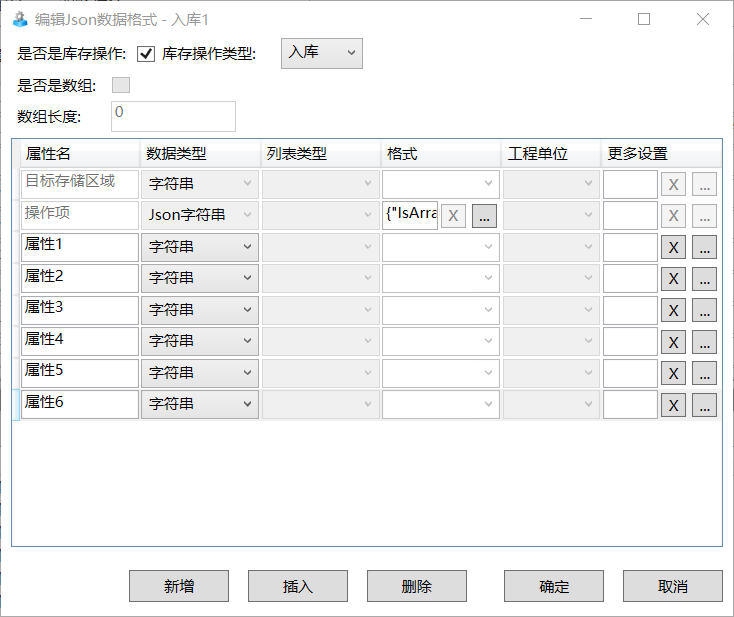
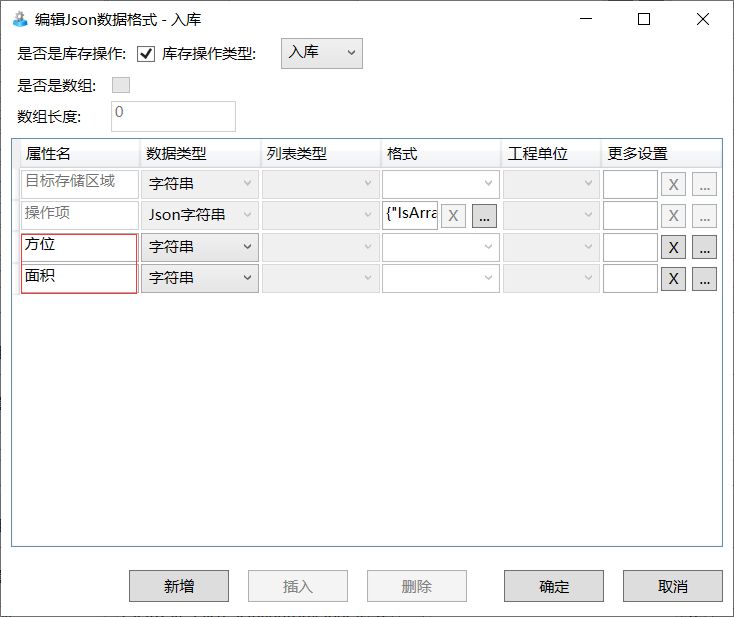
4.0.2发布说明更新

diff --git a/docs/发布说明/4.0.2发布说明.md b/docs/发布说明/4.0.2发布说明.md
@@ -55,11 +55,21 @@ import useBaseUrl from '@docusaurus/useBaseUrl';
 
 * 在SMC的系统设置-服务中，新增了Thingsboard一栏，点击启用，填写相关信息，保存即可
 
- <img alt=" " src={useBaseUrl('docimg/waibushuxing1.png')} />
+  <img alt=" " src={useBaseUrl('docimg/waibushuxing1.png')} />
 
-* 在SDC中，打开资产类型和资产的属性，可以看到新增了外部属性选项，勾选上后，服务运行的情况下，该资产会在Thingsboard的设备中自动创建出来，可以为该设备配置出遥测属性和动态数据，属性名称与SDC中该资产属性名称一致。从Thingsboard中拿到的值会实时更新到资产属性中，在EOC上的资产总览-属性中，该资产的画面监控中都可以看到数据的实时变化
+* 在SDC中，打开资产类型和资产的属性，可以看到新增了外部属性选项，勾选上后，服务运行的情况下，该资产会在Thingsboard的设备中自动创建出来，可以为该设备配置出遥测属性和动态数据，属性名称与SDC中该资产属性名称一致
 
- <img alt=" " src={useBaseUrl('docimg/waibushuxing2.png')} />
+  <img alt=" " src={useBaseUrl('docimg/waibushuxing2.png')} />
+
+* 从Thingsboard中拿到的值会实时更新到资产属性中
+  * 画面监控中配置该资产及其属性可以看到数据的实时变化
+    <img alt=" " src={useBaseUrl('docimg/waibushuxing3.png')} />
+
+  * 在EOC上的资产总览-属性中，刷新可看的数据在变化，可以在历史趋势和表格里看所有记录
+  <img alt=" " src={useBaseUrl('docimg/waibushuxing4.png')} />
+
+  * 终端上使用该资产属性值作为配置拿到的也是实时的值
+    <img alt=" " src={useBaseUrl('docimg/waibushuxing5.png')} />
 
 * 数据类型为文件、多选列表、Json字符串时，不支持选择外部属性
 
@@ -90,7 +100,10 @@ import useBaseUrl from '@docusaurus/useBaseUrl';
   <img alt=" " src={useBaseUrl('docimg/zhongduanshenhe.png')} />
 
   * 摘要信息可以看到作业项数例外作业(项)数的可视化显示
-  * 作业树中可以进行信息过滤和高亮等操作
+    <img alt=" " src={useBaseUrl('docimg/zhongduanshenhe2.png')} />
+
+  * 作业树中可以看到详细内容，进行信息过滤和高亮等操作
+    <img alt=" " src={useBaseUrl('docimg/zhongduanshenhe3.png')} />
 
 ### PBIN1280：物料增加Avatar
 
@@ -141,12 +154,18 @@ import useBaseUrl from '@docusaurus/useBaseUrl';
 
 ### EOC作业项Word和Excel视图支持使用第三方预览服务
 
-* EOC端作业项的Word和Excel视图功能优化，支持第三方预览服务，此功能需要外网
+* EOC端作业项的Word和Excel视图功能优化，支持第三方预览服务
+
+:::tip 注意
+要使用此功能，需要外网ip可以访问到部署的企业运营中心
+:::tip 注意
 
 * 在SMC中添加了相应的系统设置
-  * 在系统参数中添加了使用外部文档服务选项，勾选上，地址栏中填写https://view.officeapps.live.com/op/view.aspx?src=$DocUrl$
-    
-    <img alt=" " src={useBaseUrl('docimg/disanfangyulan.png')} />
+  * 在系统参数中添加了使用外部文档服务选项，勾选上，地址栏中填写'第三方服务地址=$DocUrl$'，$DocUrl$为文件存放在第三方服务地址，比如：
+    * 使用微软服务地址 https://view.officeapps.live.com/op/view.aspx?src=$DocUrl$
+    * 使用永中服务地址 http://dcsapi.com/?k=域名key&url=$DocUrl$ （域名Key请自行在永中申请）
+
+      <img alt=" " src={useBaseUrl('docimg/disanfangyulan.png')} />
 
   * 在服务中心的外部消息处，填写上相应的外部访问网址，比如
 
@@ -202,9 +221,20 @@ import useBaseUrl from '@docusaurus/useBaseUrl';
 
 * 选择库存操作类型后，除一些固定字段如"来源存储区域"、"目标存储区域"、"操作项"外，可以点击新增字段，也可以删除设置好的默认属性如出库操作中的"资产"字段。没有"资产"字段的操作类型，新增的字段其属性名称不可以为"资产"。
 
-* 新建字段的数据类型，只支持没有任何显示样式的字符串
+* 新建字段对应存储区域表和物料表中自定义的属性，需要在EOC端管理中的系统扩展管理里，添加内置报表自定义列，报表选择存储区域表或物料表，点击样例，修改其中"Field"的值为图中所示，其中"aaa"和"bbb"不可以同名，只为区分没有实际意义，可填写任意英文名称。属性名称"品牌"和"型号"可自行修改，也可以按照格式写上更多的属性。之后点击添加，进入库存的物料表，点击新建或编辑，就能看到多出来型号及品牌两个属性了
+  
+  <img alt=" " src={useBaseUrl('docimg/neijianwuliao2.png')} />
+  <img alt=" " src={useBaseUrl('docimg/neijianwuliao3.png')} />
 
-  <img alt=" " src={useBaseUrl('docimg/neijianwuliao.png')} />
+
+* 在SDC中新建编辑作业组属性Json数据格式的库存操作时，点击新增，要在存储区域和物料的同层级中新建(如图所示)，名称要与EOC端自定义的属性名称一致。新建字段的数据类型，只支持没有任何显示样式的字符串
+  * 存储区域
+    <img alt=" " src={useBaseUrl('docimg/neijianwuliao.png')} />
+
+  * 物料
+    <img alt=" " src={useBaseUrl('docimg/neijianwuliao4.png')} />
+
+* 配置完成后，当用户在EOC端和终端对新建字段进行编辑后，填写的值会自动更新至存储区域表和物料表中
 
 ### PBIN1368：人员自由排班功能增强
 
